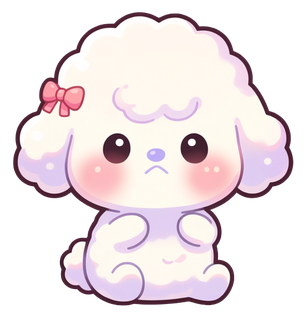
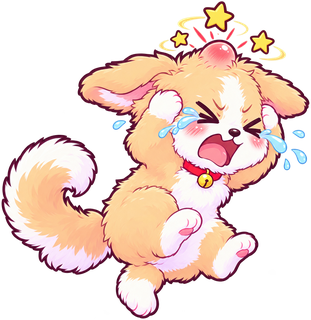
v0.7.85 방울이 맞은 그림 — 혹·별·눈물로 아파하는 시고르자브종 (OpenAI)

diff --git a/index.html b/index.html
@@ -1073,7 +1073,7 @@
   const elTitle = document.getElementById("overTitle");
   const coinNote = document.getElementById("coinNote");
 
-  const GAME_VERSION = "v0.7.84";
+  const GAME_VERSION = "v0.7.85";
   /* 제작사 스플래시(bamhobak friends 로고) — 2026-09-20 끔. 다시 켜려면 true */
   const SPLASH_USE = false;   // 코드를 고칠 때마다 뒤 두 자리를 올린다
   document.getElementById("ver").textContent = GAME_VERSION;
@@ -1587,7 +1587,10 @@
   const SPR_BANGUL = {
     right: { img: null, aspect: 1.0886, head: 0.440, cx: 0.645, cy: 0.420, adj: 0.5710,
              bcx: 0.470, bcy: 0.550, brr: 0.520, float: true },
-    hurt:  { img: null, aspect: 0.959, head: 0.480, cx: 0.500, cy: 0.340, adj: 0.5424 }
+    /* 맞은 그림 — 같은 강아지가 머리에 혹이 나고 눈을 '> <' 로 질끈 감은 채 엉엉 운다 (OpenAI hurt25_2).
+       adj 를 헤엄 그림과 같게(0.571) 둬서 맞는 순간에도 머리가 같은 크기로 보인다. */
+    hurt:  { img: null, aspect: 0.9719, head: 0.394, cx: 0.675, cy: 0.360, adj: 0.5710,
+             bcx: 0.500, bcy: 0.520, brr: 0.520 }
   };
   // 방울이는 제 우주복이 따로 있다 (다른 직업은 공용 우주복을 입는다)
   const SPR_BANGUL_SPACE = {
@@ -1743,7 +1746,13 @@
     /* 방울이(땅)는 새 그림이 아직 떠오르는 모습 하나뿐이다. 맞은 그림은 옛 푸들이라
        받지 않는다 — 비워 두면 맞은 동안에도 같은 그림을 쓴다 (빨간 번쩍임·흔들림은 그대로). */
     /* 땅의 방울이는 정지 그림(bangul_right.png)을 게임 안에서 쓰지 않는다 — 헤엄 프레임과
-       캔버스가 달라 규격이 어긋난다. 첫 헤엄 프레임이 기본 그림이 된다 (loadRunFrames). */
+       캔버스가 달라 규격이 어긋난다. 첫 헤엄 프레임이 기본 그림이 된다 (loadRunFrames).
+       맞은 그림(bangul_hurt.png)은 제 규격이 따로 있어 그대로 받는다. */
+    if (key === "hurt") {
+      const bh = new Image();
+      bh.onload = () => { SPR_BANGUL.hurt.img = bh; };
+      bh.src = "assets/bangul_hurt.png";
+    }
     const bs = new Image();
     bs.onload = () => { SPR_BANGUL_SPACE[key].img = bs; };
     bs.src = "assets/bangul_space_" + key + ".png";

diff --git a/README.md b/README.md
@@ -5,7 +5,7 @@
 👉 **플레이: https://bamhobak.github.io/ddongpi/**
 
 > 이 문서는 `index.html` 의 실제 값을 옮겨 적은 것입니다. 숫자를 고쳤으면 여기도 같이 고쳐 주세요.
-> 마지막으로 맞춰 본 판: **v0.7.84**
+> 마지막으로 맞춰 본 판: **v0.7.85**
 
 ## 조작
 - 📱 모바일: 화면 아무 데나 손가락을 대고 좌우로 **끌기** (누른 자리가 기준점 — 순간이동하지 않음)
@@ -285,10 +285,10 @@
 | 그림 | 만든 법 | 쓰는 곳 |
 |---|---|---|
 | `bangul_right.png` (정지) | OpenAI `gpt-image-2` (`tools/gen_sprite.py`) | 직업 카드·순위표 |
+| `bangul_hurt.png` (맞았을 때, 1초) | OpenAI — 머리에 혹·별, 눈 `> <`, 눈물, 엉엉 | 게임 안 |
 | `bangul_swim1~16.webp` (개헤엄) | 위 그림을 Ludo `animateSprite`(hydra, 3초·16장, "귀가 날개처럼 크게 펄럭이게")로 움직임 | 게임 안 |
 
-(2026-09-22 흰 푸들에서 바뀜. **맞은 그림·우주복은 다음 차례** — 맞은 동안에는 헤엄 그림을 그대로 쓰고,
-오로라 지대(78초)부터는 아직 옛 푸들 우주복입니다.)
+(2026-09-22 흰 푸들에서 바뀜. **우주복은 다음 차례** — 오로라 지대(78초)부터는 아직 옛 푸들 우주복입니다.)
 
 목숨 막대 자리에 **오염도 막대**가 섭니다.
 
